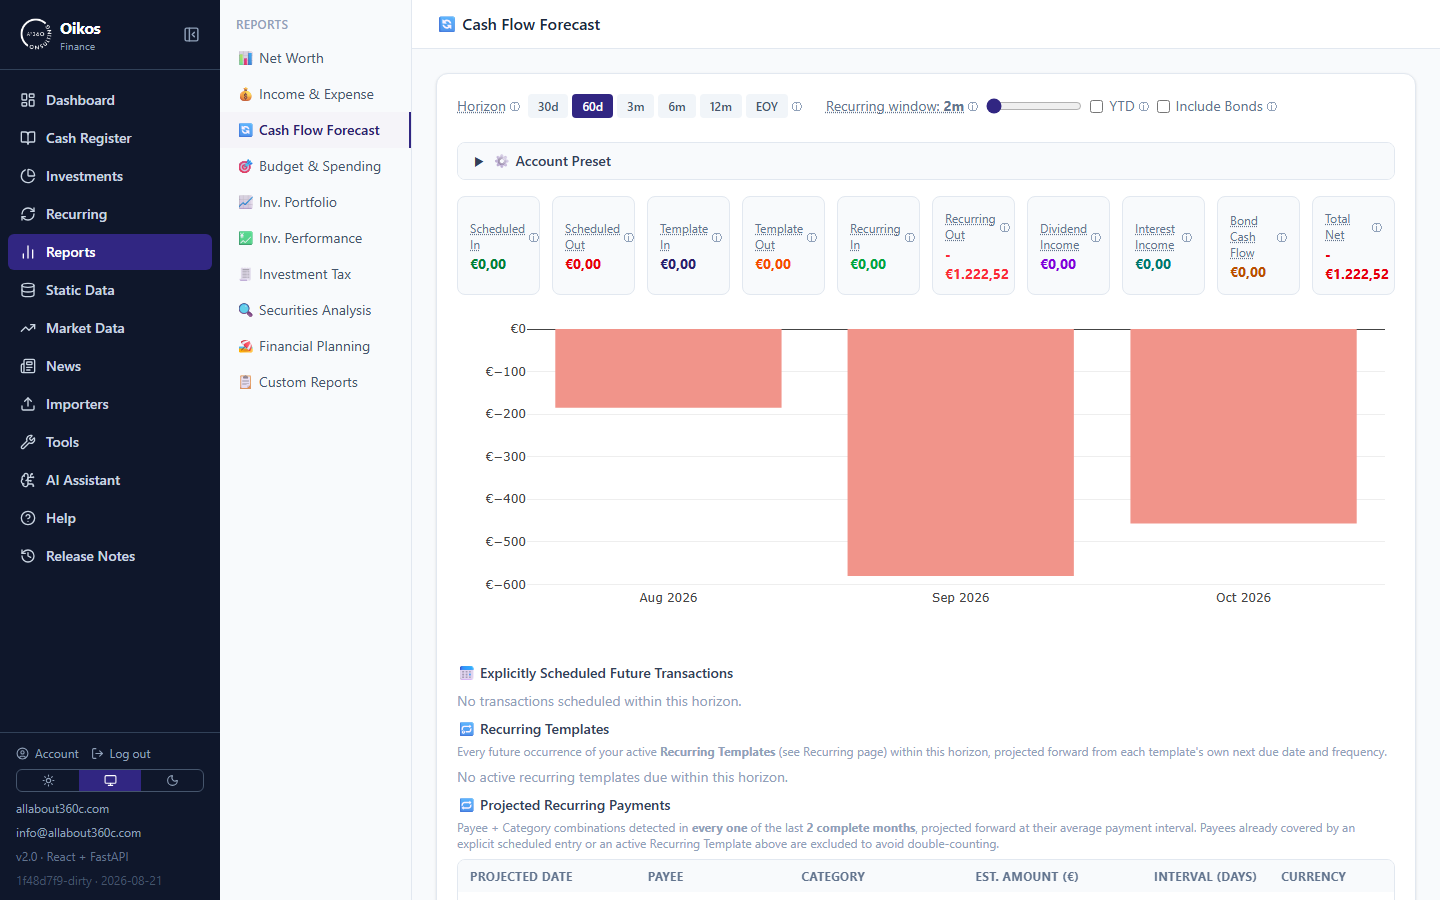
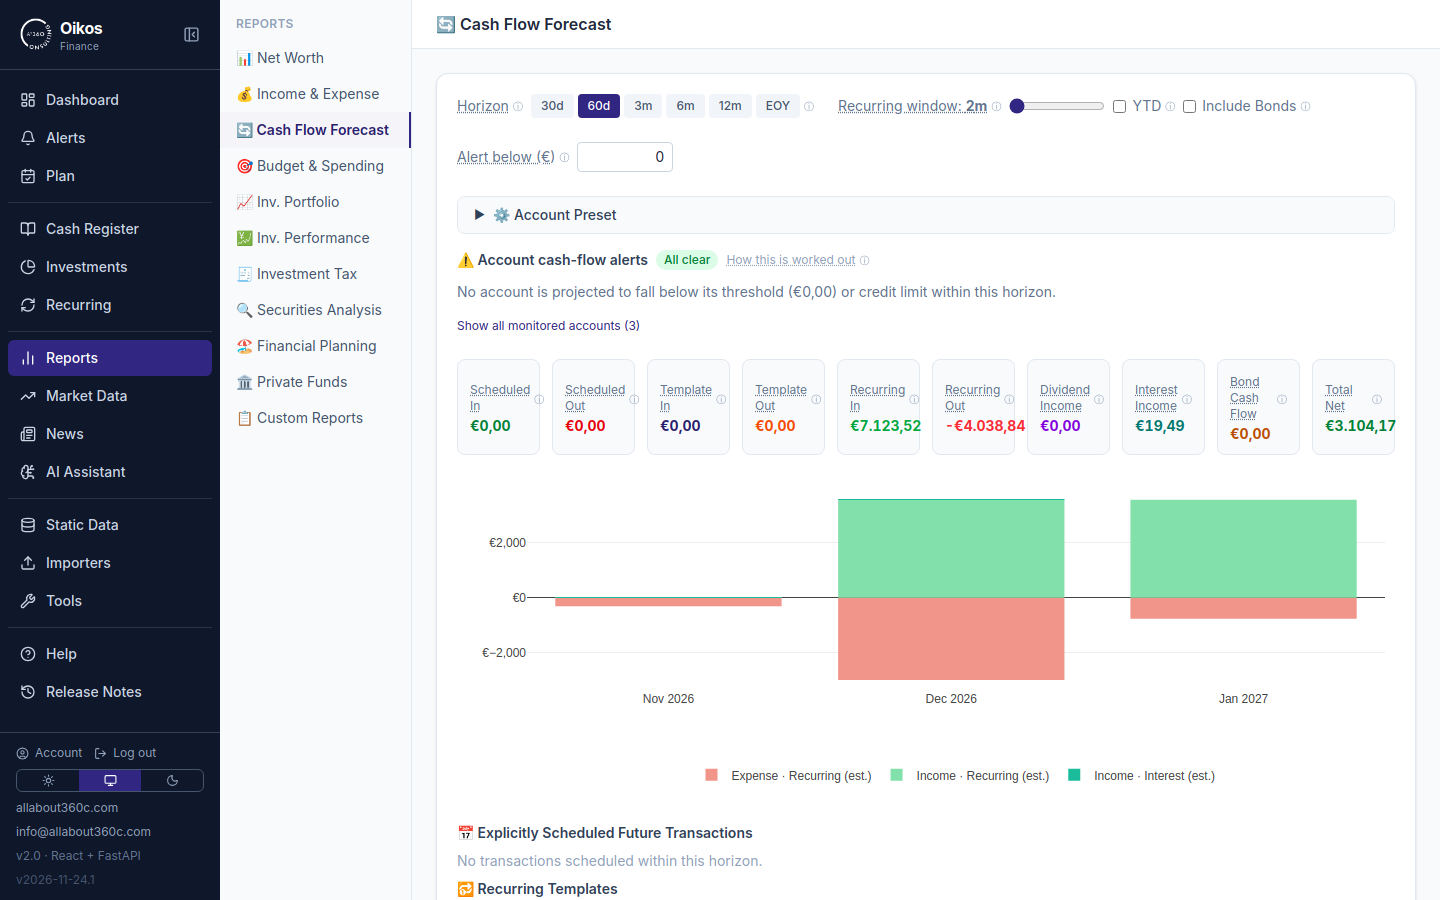
README: fresh screenshots from a demo instance with made-up data

diff --git a/README.md b/README.md
@@ -100,14 +100,16 @@ This page is the fast path.
 ## Screenshots
 
 *(All figures below are from a seeded demo instance with made-up data, not a
-real household's finances. The app has gained pages since they were taken.)*
+real household's finances.)*
 
 | | |
 |---|---|
-| ![Dashboard](./docs/screenshots/dashboard.png) | ![Investment holdings](./docs/screenshots/holdings.png) |
-| Dashboard — net worth breakdown and trend | Investments — holdings with live gain/loss |
+| ![Dashboard](./docs/screenshots/dashboard.png) | ![Cash Register](./docs/screenshots/cash-register.png) |
+| Dashboard: net worth by group, insights, market watch and alerts | Cash Register: one account's ledger with cleared and reconciled status |
+| ![Investment holdings](./docs/screenshots/holdings.png) | ![Income & Expense](./docs/screenshots/income-expense.png) |
+| Investments: holdings with cost basis and gain/loss in the reporting currency | Income & Expense: income, spending and savings rate by month |
 | ![Cash Flow Forecast](./docs/screenshots/cash-flow-forecast.png) | ![Portfolio X-Ray asset allocation](./docs/screenshots/portfolio-xray.png) |
-| Cash Flow Forecast — projected balance over a chosen horizon | Portfolio X-Ray — look-through asset allocation vs. target |
+| Cash Flow Forecast: projected income and spending, with low-balance alerts | Portfolio X-Ray: look-through asset allocation against targets |
 
 ## Prerequisites
 
